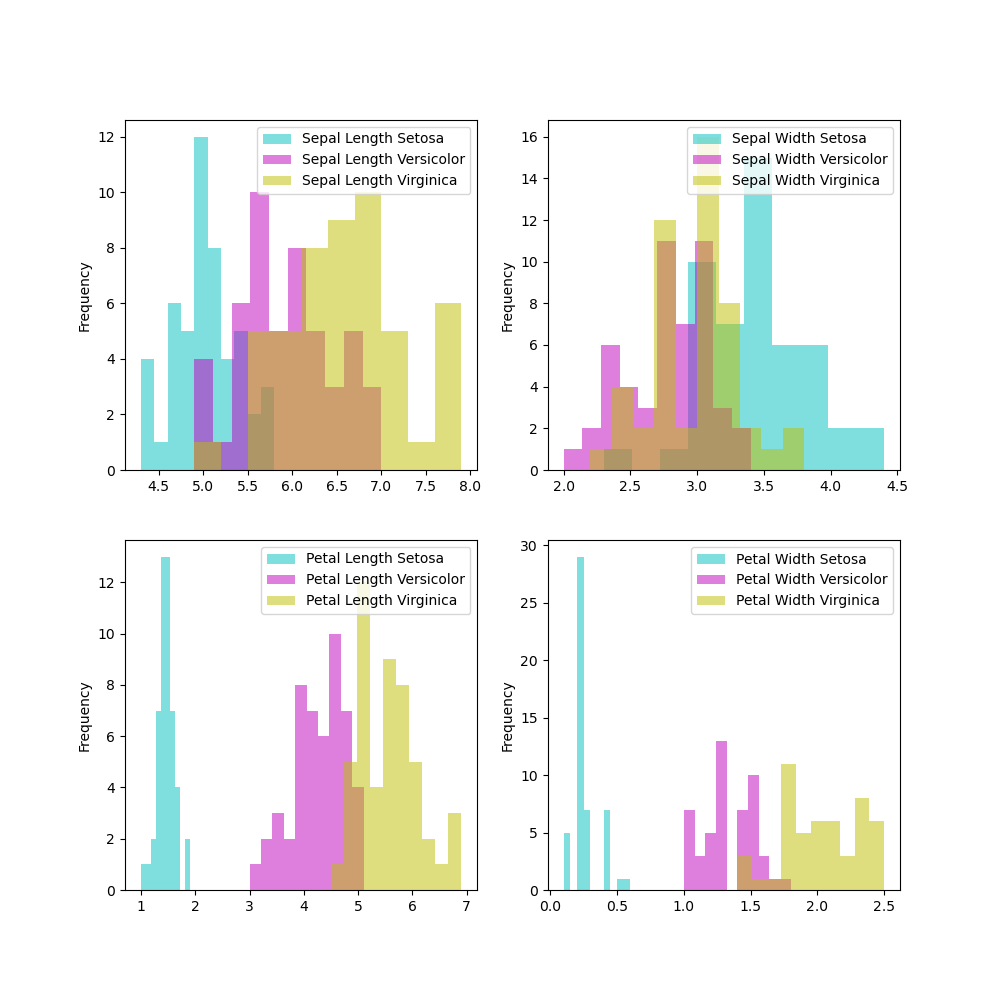
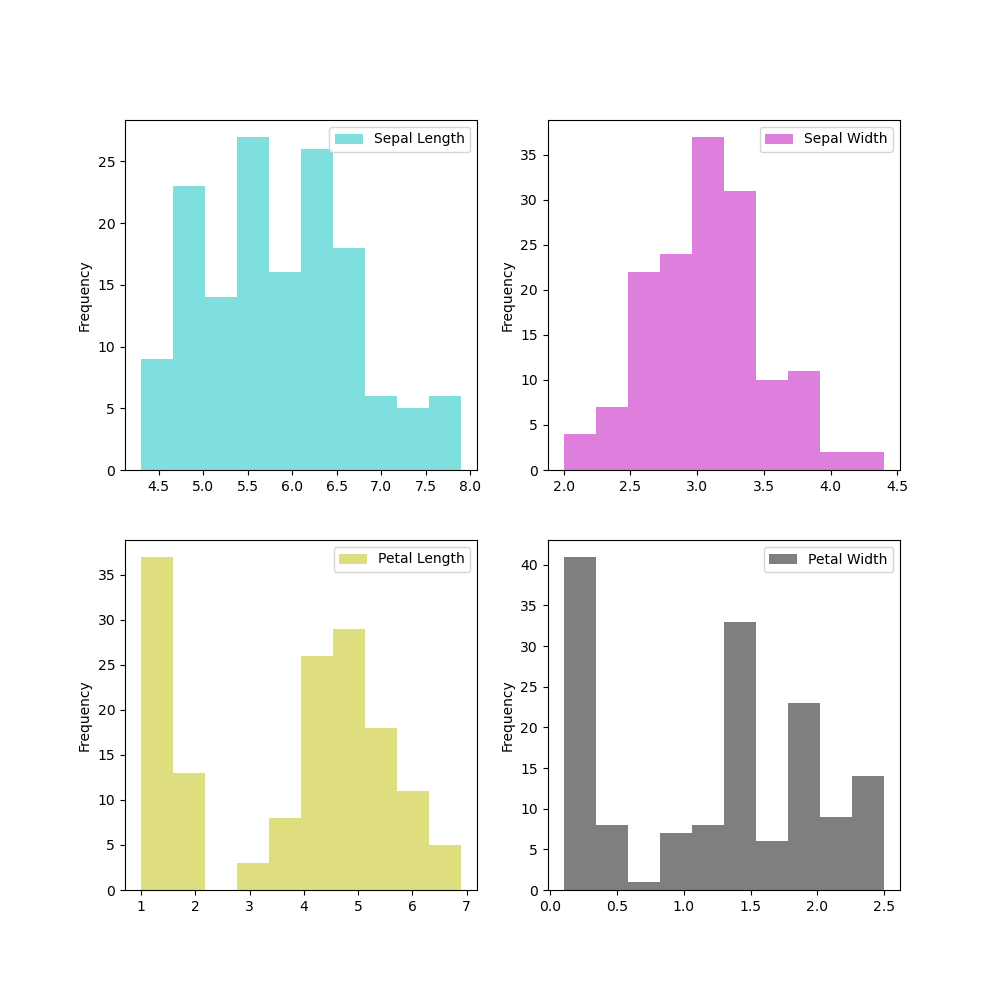
updates to plotting, variables_txt & readme

diff --git a/variable_txt.py b/variable_txt.py
@@ -13,16 +13,21 @@ iris = load_iris()
 df= pd.DataFrame(data= np.c_[iris['data'], iris['target']],
                  columns= iris['feature_names'] + ['target'])
 
-def mean(col):
-    mean = df[col].mean()
+#split out species
+df1 = df[0:50]
+df2 = df[50:100]
+df3 = df[100:150]
+
+def mean(data_frame, col):
+    mean = data_frame[col].mean()
     return mean
 
-def min(col):
-    min = df[col].min()
+def min(data_frame, col):
+    min = data_frame[col].min()
     return min
 
-def max(col):
-    max = df[col].max()
+def max(data_frame, col):
+    max = data_frame[col].max()
     return max
 
 
@@ -30,14 +35,32 @@ def max(col):
 
 FILENAME = "variables.txt"
 
-Sepal_length = (f'''Sepal Length:
-The maximum Sepal length is {max('sepal length (cm)')}, the minimum is {min('sepal length (cm)')} and the mean is {round(mean('sepal length (cm)'),3)}\n''')
-Sepal_width = (f'''\nSepal Width:
-The maximum Sepal Width is {max('sepal width (cm)')}, the minimum is {min('sepal width (cm)')} and the mean is {round(mean('sepal width (cm)'),3)}\n''')
+Sepal_length = (f'''Sepal Length:\n
+The maximum Sepal length is {max(df, 'sepal length (cm)')}, the minimum is {min(df, 'sepal length (cm)')} and the mean is {round(mean(df, 'sepal length (cm)'),3)}\n
+For Setosa the maximum Sepal length is {max(df1, 'sepal length (cm)')}, the minimum is {min(df1, 'sepal length (cm)')} and the mean is {round(mean(df1, 'sepal length (cm)'),3)}
+For Versicolor the maximum Sepal length is {max(df2, 'sepal length (cm)')}, the minimum is {min(df2, 'sepal length (cm)')} and the mean is {round(mean(df2, 'sepal length (cm)'),3)}
+For Virginica the maximum Sepal length is {max(df3, 'sepal length (cm)')}, the minimum is {min(df3, 'sepal length (cm)')} and the mean is {round(mean(df3, 'sepal length (cm)'),3)}
+''')
+Sepal_width = (f'''\nSepal Width:\n
+The maximum Sepal Width is {max(df, 'sepal width (cm)')}, the minimum is {min(df, 'sepal width (cm)')} and the mean is {round(mean(df, 'sepal width (cm)'),3)}\n
+For Setosa the maximum Sepal Width is {max(df1, 'sepal width (cm)')}, the minimum is {min(df1, 'sepal width (cm)')} and the mean is {round(mean(df1, 'sepal width (cm)'),3)}
+For Versicolor the maximum Sepal Width is {max(df2, 'sepal width (cm)')}, the minimum is {min(df2, 'sepal width (cm)')} and the mean is {round(mean(df2, 'sepal width (cm)'),3)}
+For Virginica the maximum Sepal Width is {max(df3, 'sepal width (cm)')}, the minimum is {min(df3, 'sepal width (cm)')} and the mean is {round(mean(df3, 'sepal width (cm)'),3)}
+''')
+
 Petal_length = (f'''\nPetal Length:
-The maximum Petal length is {max('petal length (cm)')}, the minimum is {min('petal length (cm)')} and the mean is {round(mean('petal length (cm)'),3)}\n''')
+The maximum Petal length is {max(df, 'petal length (cm)')}, the minimum is {min(df, 'petal length (cm)')} and the mean is {round(mean(df, 'petal length (cm)'),3)}\n
+For Setosa the maximum Petal length is {max(df1, 'petal length (cm)')}, the minimum is {min(df1, 'petal length (cm)')} and the mean is {round(mean(df1, 'petal length (cm)'),3)}
+For Versicolor the maximum Petal length is {max(df2, 'petal length (cm)')}, the minimum is {min(df2, 'petal length (cm)')} and the mean is {round(mean(df2, 'petal length (cm)'),3)} 
+For Virginica the maximum Petal length is {max(df3, 'petal length (cm)')}, the minimum is {min(df3, 'petal length (cm)')} and the mean is {round(mean(df3, 'petal length (cm)'),3)}
+''')
 Petal_width	= (f'''\nPetal Width:
-The maximum Petal Width is {max('petal width (cm)')}, the minimum is {min('petal width (cm)')} and the mean is {round(mean('petal width (cm)'),3)}\n''')
+The maximum Petal Width is {max(df, 'petal width (cm)')}, the minimum is {min(df, 'petal width (cm)')} and the mean is {round(mean(df, 'petal width (cm)'),3)}\n
+For Setosa the maximum Petal Width is {max(df1, 'petal width (cm)')}, the minimum is {min(df1, 'petal width (cm)')} and the mean is {round(mean(df1, 'petal width (cm)'),3)}
+For Versicolor the maximum Petal Width is {max(df2, 'petal width (cm)')}, the minimum is {min(df2, 'petal width (cm)')} and the mean is {round(mean(df2, 'petal width (cm)'),3)}
+For Virginica the maximum Petal Width is {max(df3, 'petal width (cm)')}, the minimum is {min(df3, 'petal width (cm)')} and the mean is {round(mean(df3, 'petal width (cm)'),3)}
+''')
+
 Species = '''\nSpecies:
 This will hold a summary of what the species variable is and the data it contains\n'''
 

diff --git a/plotting.py b/plotting.py
@@ -17,11 +17,23 @@ iris = load_iris()
 df= pd.DataFrame(data= np.c_[iris['data'], iris['target']],
                  columns= iris['feature_names'] + ['target'])
  
+# plot histogram
+
+fig, ((ax, ax1), (ax2, ax3)) = plt.subplots(ncols=2, nrows=2,  figsize=(10, 10))
+
+df.plot(kind = 'hist', y = 'sepal length (cm)', color='c', alpha = 0.5, label = 'Sepal Length', ax=ax)
+df.plot(kind = 'hist', y = 'sepal width (cm)', color='m', alpha = 0.5, label = 'Sepal Width', ax=ax1)
+df.plot(kind = 'hist', y = 'petal length (cm)', color='y', alpha = 0.5, label = 'Petal Length', ax=ax2)
+df.plot(kind = 'hist', y = 'petal width (cm)', color='k', alpha = 0.5, label = 'Petal Width', ax=ax3)
+
+plt.savefig('histogram.png')
+
+#split out species
 df1 = df[0:50]
 df2 = df[50:100]
 df3 = df[100:150]
 
-# plot histogram
+# plot histogram coloured by species
 
 fig, ((ax, ax1), (ax2, ax3)) = plt.subplots(ncols=2, nrows=2,  figsize=(10, 10))
 
@@ -38,7 +50,7 @@ df1.plot(kind = 'hist', y = 'petal width (cm)', color='c', alpha = 0.5, label = 
 df2.plot(kind = 'hist', y = 'petal width (cm)', color='m', alpha = 0.5, label = 'Petal Width Versicolor', ax=ax3)
 df3.plot(kind = 'hist', y = 'petal width (cm)', color='y', alpha = 0.5, label = 'Petal Width Virginica', ax=ax3)
 
-plt.savefig('histogram.png')
+plt.savefig('histogram_species.png')
 
 # plot scatter
 

diff --git a/README.md b/README.md
@@ -3,7 +3,7 @@
 ![](https://github.com/decvfox/pands-project/blob/main/Banner.png)
 
 # Introduction
-Fisher’s Iris Data Set is based on data collected by Edgar Anderson from three species of irises in the Gaspé Peninsula in Quebec, Canada. This Data set has been used countless times in statistics papers since they were first used by R. A. Fisher in 1936 to introduce the method of discriminant analysis. The dataset is made up of five variables, the first four of which are measurements of Sepal Length, Sepal Width, Petal Length and Petal Width, and a fifth variable which denotes which species of iris. (Fox and Weisberg, 2011) 
+Fisher’s Iris Data Set is based on data collected by Edgar Anderson from three species of irises in the Gaspé Peninsula in Quebec, Canada. This Data set has been used countless times in statistics papers since they were first used by R. A. Fisher in 1936 to introduce the method of discriminant analysis. The dataset is made up of five variables, the first four of which are measurements of Sepal Length, Sepal Width, Petal Length and Petal Width, and a fifth variable which denotes which species of iris, Iris Setosa,Iris Versicolour, and Iris Virginca(Fox and Weisberg, 2011). There are 50 samples for each species for a total of 150 samples. Fishers aim was to classify the species based on the different measurements in the dataset and since the advent of machine learning this dataset has become a benchmark for testing algorithms.
 ### Sepals
 In most flowering plants sepals are usually the green leaf like structures that enclose the flower in the bud and open up to support the petals when it blooms. While Botanists disagree as to whether Irises have Sepals or not(‘What-should-we-know-about-the-famous-Iris-data.pdf’, 2013), for the purposes of this project, we will, as Anderson and Fisher have done, count the larger petal-like parts of the flower as sepals.
 
